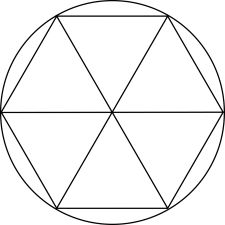
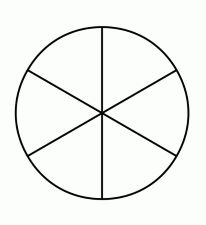
Minor changes

diff --git a/content/php2.md b/content/php2.md
@@ -8,9 +8,9 @@ In this post, I'll discuss a couple examples where Pigeonhole principle is emplo
 
 ### The Friendship Theorem
 
-__Among six people, there are always three who know each other or three who are complete strangers.__ 
+_Among six people, there are always three who know each other or three who are complete strangers._
 
-How can one establish such a statement using mathematics? It almost sounds preposterous! Here we use another concept well known to us but appears to be unrelated - Geometry. Consider a hexagon where every vertex \\(A,B,C,D,E,F\\) denotes a person. Now we join all the vertices by either a red line or a blue line. Two points joined by a red line implies the two people represented by the points are strangers while the blue line represents friends (or simply people who know each other). 
+How can one establish such a statement using mathematics? It almost sounds preposterous! Here we use another concept well known to us but appears to be unrelated - Geometry. Consider a hexagon where every vertex \\(A,B,C,D,E,F\\) denotes a person. Now we join all the vertices by either a red line or a blue line. Two points joined by a red line implies that the two people represented by the points are strangers while the blue line represents friends (or simply people who know each other). 
 
 Lets start with person A. There are \\(5\\) lines leading away from A which can be either red or blue. This is where the Pigeonhole principle kicks in. Let 'red' and 'blue' be holes and the \\(5\\) lines be pigeons. Since \\(\frac{n}{k} = \frac{5}{3}\\) is not an integer, one of the holes has at least \\([\frac{n}{k}] + 1 = 3\\) lines. Without loss of generality, let the three lines be blue. 
 
@@ -20,13 +20,13 @@ Now if any one of \\(CD\\) or \\(DE\\) or \\(CE\\) is blue, we have a blue trian
 
 ### A Geometrical Problem
 
-__If a disk of radius one contains seven points with mutual distance \\(\geq 1.\\) Prove that one of the points in the center of the disk.__ 
+_If a disk of radius one contains seven points with mutual distance \\(\geq 1.\\) Prove that one of the points is the center of the disk._
 
 You might be wondering - where are the holes? Well, we make our own holes! 
 
 ![circle](/circle.jpg#center)
 
-Each one of the \\(6\\) partitions is a 'hole' while the \\(7\\) points are 'pigeons'. So one of the parition contains at least \\([\frac{7}{6}] + 1 = 2\\) points. However this is impossible. Let the two points be  \\(P\\) and \\(Q\\). Since they are inside the partition, the angle between them is lesser than \\(\ang{60}\\) and \\(OP\\) and \\(OQ \leq\\) radius \\(=1\\). By the cosine rule, it is easy to verify \\(PQ < 1\\) which violates the given condition.
-The only other alternative is to have one of the points as centre and indeed if we place the rest \\(6\\) points at a separation of \\(\ang{60}\\) on the circumference, we are left with the situation described in the question. 
+Each one of the \\(6\\) partitions is a 'hole' while the \\(7\\) points are 'pigeons'. So one of the parition contains at least \\([\frac{7}{6}] + 1 = 2\\) points. However this is impossible. Let the two points be  \\(P\\) and \\(Q\\). Since they are inside the partition, the angle between them \\( \angle POQ < 60^{\degree}\\) and \\(OP\\) and \\(OQ \leq\\) radius \\(=1\\) (\\(O\\) being the centre of the cirlce). By the cosine rule, it is easy to verify \\(PQ < 1\\) which violates the given condition.
+The only other alternative is to have one of the points as centre and indeed if we place the rest \\(6\\) points at a separation of \\(60^{\degree}\\) on the circumference, we are left with the situation described in the question. 
 
 After a little experience, identifying questions which require the pigeonhole principle becomes quite easy. The idea of dividing a geometrical shape to accommodate the points is a powerful technique and the key to a lot of problems. 
